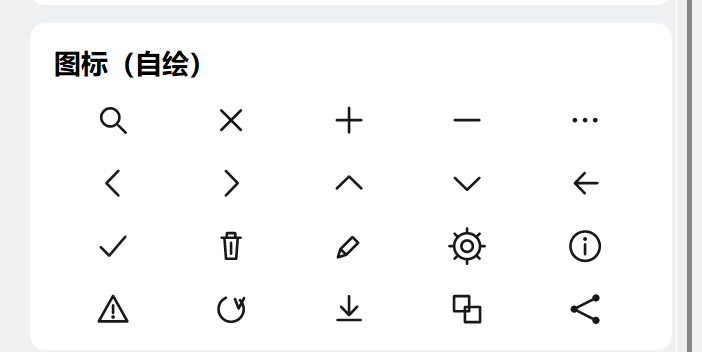
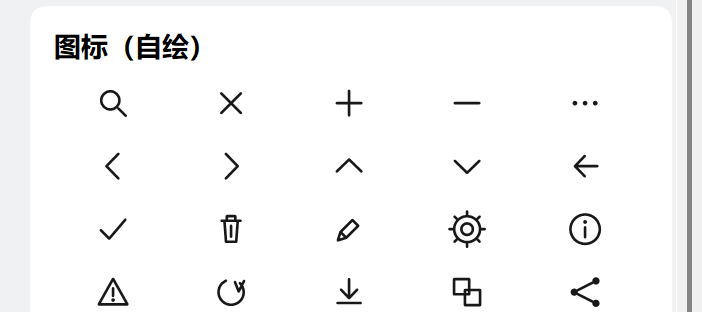
Remove frosted glass entirely
Neither route could give a control inside a page a translucent surface: the CPU blur only ever saw
the library's own paint tree, and a DWM system backdrop only covers a whole top-level window. Both
are gone, so the library is back to plain GDI+ self-painting.

- CouiBackdropEffect and CouiBackdropStyle (DWM system backdrop, acrylic accent policy, frame
  margins, corner preference, byte-order handling and the fallback between the two) are deleted.
- The demo's floating bar goes with them: it existed only to show a backdrop, and it took a
  borderless child window, three icons and the move/resize/dark-mode plumbing with it.
- CouiControl.FillsBackdrop stays, because it is not about glass: glyph controls skip an opaque
  backdrop so an icon never paints a rectangle of page colour over the card it sits on.

Version 0.2.2, screenshots re-shot without the bar, README, CHANGELOG and the Pages site state that
frosted glass is out of scope.

diff --git a/docs/index.html b/docs/index.html
@@ -111,9 +111,9 @@
   <header>
     <span class="eyebrow">WinForms · C#</span>
     <h1>CouiSharp</h1>
-    <p class="lede">按 ColorOS 17（COUI）的令牌做的一套 WinForms 控件库：12dp 超椭圆卡片、44dp 胶囊按钮、10dp 输入框；20 个图标全部自绘；浮动条的毛玻璃交给 Windows 合成器，不在托管代码里模糊像素。</p>
+    <p class="lede">按 ColorOS 17（COUI）的令牌做的一套 WinForms 控件库：12dp 超椭圆卡片、44dp 胶囊按钮、10dp 输入框；20 个图标全部自绘，透明度只靠底色合成，不做毛玻璃。</p>
     <div class="meta">
-      <span class="chip"><strong>0.2.1</strong></span>
+      <span class="chip"><strong>0.2.2</strong></span>
       <span class="chip"><strong>独立</strong> 于 MiuixSharp</span>
       <span class="chip">net8.0 / net6.0</span>
       <span class="chip">MIT</span>
@@ -166,24 +166,12 @@
     </figure>
     <div class="grid3">
       <div class="tile"><h3>CouiIcon</h3><p>Kind / IconSize / Tint 三个属性，默认跟随主题前景色。</p></div>
-      <div class="tile"><h3>不占底色</h3><p>FillsBackdrop = false：图标落在半透明窗口上不会带出一块页面颜色的方块。</p></div>
+      <div class="tile"><h3>不占底色</h3><p>FillsBackdrop = false：图标不会在自己脚下铺一块页面颜色的方块。</p></div>
       <div class="tile"><h3>为什么自己画</h3><p>COUI 图标是从 ColorOS 系统包描出来的，授权不清；自绘既干净又能按需加。</p></div>
     </div>
   </section>
 
   <section>
-    <h2>毛玻璃：用 Windows 自己的，不画像素</h2>
-    <p class="sub">CouiBackdropEffect 只调两个原生入口：Win11 22H2 起走 DWM 的系统背板类型，更老的机器退回 SetWindowCompositionAttribute 的亚克力策略。模糊由合成器做，托管的绘制时间成本是零。</p>
-    <div class="grid3">
-      <div class="tile"><h3>Win11 22H2+</h3><p>DWMWA_SYSTEMBACKDROP_TYPE：Mica / Acrylic / Tabbed，就是「设置」和开始菜单用的那一套。</p></div>
-      <div class="tile"><h3>Win10 1803+</h3><p>accent policy 的 ACCENT_ENABLE_ACRYLICBLURBEHIND；tint 的字节序是 0xAABBGGRR，和 GDI+ 反着。</p></div>
-      <div class="tile"><h3>替你处理掉的细节</h3><p>全 -1 的边框外延（否则背板止于边框）、圆角偏好（不再用 Region 裁）、驱动拒绝 DWM 属性时回退。</p></div>
-      <div class="tile"><h3>用在哪</h3><p>只有顶层窗口能透出来，所以是浮动条、调色盘、Toast 这类小表面，不是页面里的控件。</p></div>
-      <div class="tile"><h3>演示</h3><p>页面底部那条浮动条是一个无边框子窗口，里面只放三个 CouiIcon，模糊的「保存」按钮就在它左端。</p></div>
-      <div class="tile"><h3>顺手的事</h3><p>背板跟着壁纸和系统的深浅色走，ApplyDarkMode 把窗口的明暗意图交给 DWM。</p></div>
-    </div>
-  </section>
-
   <section>
     <h2>控件</h2>
     <p class="sub">全部自绘：先铺解析出的底色，再画超椭圆路径，不用 Region 裁圆角。</p>
@@ -229,7 +217,7 @@ card.Controls.AddRange(new Control[] { title, toggle, save });</pre>
           <tr><th>底色</th><td>自绘前先解析父级链路（含自定义 SurfaceColor），圆角外不会露出异物。</td></tr>
           <tr><th>文字</th><td>半透明令牌先与底色合成，再交给 TextRenderer，避免 GDI 把 26% 文字画成纯黑。</td></tr>
           <tr><th>字体</th><td>点数本身随 DPI 走，只额外乘用户显示比例，避免 150% 下双重放大。</td></tr>
-          <tr><th>毛玻璃</th><td>交给 Windows 合成器（DWM 系统背板 / 亚克力策略），托管代码不碰像素；只对顶层窗口有效。</td></tr>
+          <tr><th>毛玻璃</th><td>不做。CPU 模糊只能看到库自己画的像素，系统背板只给整个顶层窗口，两者都给不了页面内控件的透明底。</td></tr>
           <tr><th>度量</th><td>句柄创建、DPI 变化、主题变化、尺寸变化都会触发 ApplyMetrics 重算。</td></tr>
         </tbody>
       </table>
@@ -243,6 +231,7 @@ card.Controls.AddRange(new Control[] { title, toggle, save });</pre>
 </div>
 </body>
 </html>
+
 
 
 

diff --git a/samples/CouiSharp.Demo/DemoForm.cs b/samples/CouiSharp.Demo/DemoForm.cs
@@ -15,8 +15,6 @@ public sealed class DemoForm : Form
 {
     private readonly Panel _page;
     private readonly CouiLabel _status;
-    private Form _bar;
-    private CouiIcon[] _barIcons = Array.Empty<CouiIcon>();
     private float _builtDensity;
     private int _pageWidth = -1;
     private bool _rebuilding;
@@ -47,12 +45,6 @@ public sealed class DemoForm : Form
             Height = Px(24)
         };
 
-        // The floating bar is a separate borderless window whose backdrop is drawn by Windows
-        // (DWM system backdrop, or the acrylic accent policy on Windows 10). We never blur pixels
-        // ourselves: the bar only draws three glyphs on top of what the compositor puts behind it.
-        // It is created once the page has a position, so it never flashes at the wrong place.
-        _bar = null;
-
         CouiTheme.Changed += OnThemeChanged;
         // Rebuild only on a width change: the page also raises SizeChanged when a scrollbar appears
         // or disappears, and rebuilding on that reset the scroll position after a font switch.
@@ -71,7 +63,6 @@ public sealed class DemoForm : Form
     {
         BackColor = CouiTheme.Colors.BackgroundWithCard;
         _page.BackColor = CouiTheme.Colors.BackgroundWithCard;
-        if (_bar != null && !_bar.IsDisposed) CouiBackdropEffect.ApplyDarkMode(_bar.Handle, CouiTheme.IsDark);
         if (Math.Abs(_builtDensity - Density) > 0.01f)
         {
             // Never rebuild inside a control's own event: the scale slider raises ValueChanged
@@ -86,66 +77,7 @@ public sealed class DemoForm : Form
     protected override void OnShown(EventArgs e)
     {
         base.OnShown(e);
-        EnsureBar();
-        LayoutBar();
         Rebuild();
-    }
-
-    private void EnsureBar()
-    {
-        if (_bar != null || !CouiBackdropEffect.IsSupported) return;
-        _bar = new Form
-        {
-            FormBorderStyle = FormBorderStyle.None,
-            ShowInTaskbar = false,
-            StartPosition = FormStartPosition.Manual,
-            BackColor = Color.FromArgb(0x20, 0x20, 0x20),
-            Owner = this
-        };
-        _barIcons = new CouiIcon[]
-        {
-            new CouiIcon { Kind = CouiIconKind.Check },
-            new CouiIcon { Kind = CouiIconKind.Download },
-            new CouiIcon { Kind = CouiIconKind.Share }
-        };
-        foreach (CouiIcon icon in _barIcons) _bar.Controls.Add(icon);
-        _bar.Show();
-        CouiBackdropEffect.Apply(_bar, CouiBackdropStyle.Acrylic);
-        CouiBackdropEffect.ApplyDarkMode(_bar.Handle, CouiTheme.IsDark);
-    }
-
-    protected override void OnResize(EventArgs e)
-    {
-        base.OnResize(e);
-        LayoutBar();
-    }
-
-    protected override void OnMove(EventArgs e)
-    {
-        base.OnMove(e);
-        // The bar is its own window, so it has to be carried along when the page moves.
-        LayoutBar();
-    }
-
-    /// <summary>Places the floating acrylic bar and its icons in dp units.</summary>
-    private void LayoutBar()
-    {
-        if (_bar is null || _bar.IsDisposed) return;
-        int height = Px(68);
-        int width = Math.Min(Px(280), Math.Max(Px(160), ClientSize.Width - Px(40)));
-        Point origin = PointToScreen(new Point(
-            (ClientSize.Width - width) / 2,
-            ClientSize.Height - height - Px(20)));
-        _bar.Bounds = new Rectangle(origin, new Size(width, height));
-        int iconSize = Px(24);
-        int spacing = width / 3;
-        for (int i = 0; i < _barIcons.Length; i++)
-        {
-            _barIcons[i].IconSize = 24f;
-            _barIcons[i].Size = new Size(iconSize, iconSize);
-            _barIcons[i].Location = new Point(spacing * i + (spacing - iconSize) / 2,
-                                            (height - iconSize) / 2);
-        }
     }
 
     protected override void OnDpiChanged(DpiChangedEventArgs e)
@@ -218,7 +150,6 @@ public sealed class DemoForm : Form
             _pendingLayout = false;
         }
 
-        LayoutBar();
         DumpLayout();
     }
 
@@ -521,7 +452,7 @@ public sealed class DemoForm : Form
             Variant = CouiButtonVariant.Text,
             Bounds = new Rectangle(Px(236), buttonY, Px(148), Px(CouiShape.ButtonHeight))
         };
-        text.Click += (_, _) => _status.Text = "CouiSharp 0.2.1";
+        text.Click += (_, _) => _status.Text = "CouiSharp 0.2.2";
         card.Controls.Add(text);
 
         return y;
@@ -563,8 +494,8 @@ public sealed class DemoForm : Form
 
         var lines = new[]
         {
-            "CouiSharp 0.2.1 · ColorOS 17 视觉令牌",
-            "20 个自绘图标 · 系统原生毛玻璃",
+            "CouiSharp 0.2.2 · ColorOS 17 视觉令牌",
+            "20 个自绘图标 · 纯 GDI+ 自绘",
             "与 MiuixSharp 相互独立"
         };
 
@@ -584,15 +515,12 @@ public sealed class DemoForm : Form
 
     protected override void Dispose(bool disposing)
     {
-        if (disposing)
-        {
-            CouiTheme.Changed -= OnThemeChanged;
-            // An owned window is not disposed with its owner.
-            _bar?.Dispose();
-        }
+        if (disposing) CouiTheme.Changed -= OnThemeChanged;
         base.Dispose(disposing);
     }
 }
+
+
 
 
 

diff --git a/README.md b/README.md
@@ -59,44 +59,8 @@ Settings  Info  Warning  Refresh  Download  Copy  Share`
 
 Every icon uses a 24dp canvas, a 1.5dp stroke with round caps and a 2dp safety margin, so it stays
 crisp at any DPI and re-colours with the theme (`CouiIcon.Tint` overrides). Icons paint no backdrop
-(`FillsBackdrop = false`), so they can sit on a translucent surface without a rectangle of page
-colour behind them.
-
-## Window backdrop
-
-Frosted surfaces are **drawn by Windows, not by this library**. `CouiBackdropEffect` calls the two
-native entry points that do it:
-
-| Build | Path | Styles |
-| --- | --- | --- |
-| Windows 11 22H2+ (22621+) | `DwmSetWindowAttribute(DWMWA_SYSTEMBACKDROP_TYPE)` | `Mica`, `Acrylic`, `Tabbed` |
-| Windows 10 1803+ (17134+) | `SetWindowCompositionAttribute` / accent policy | `Acrylic`, `None` |
-
-```csharp
-using CouiSharp.Drawing;
-
-var bar = new Form
-{
-    FormBorderStyle = FormBorderStyle.None,
-    ShowInTaskbar = false,
-    Owner = ownerForm,
-    BackColor = Color.FromArgb(0x20, 0x20, 0x20)
-};
-bar.Show();
-CouiBackdropEffect.Apply(bar, CouiBackdropStyle.Acrylic);   // false on unsupported builds
-CouiBackdropEffect.ApplyDarkMode(bar.Handle, CouiTheme.IsDark);
-```
-
-What the API takes care of: `DwmExtendFrameIntoClientArea` with all `-1` margins (without it the
-backdrop stops at the frame), the rounded corner preference (`DWMWCP_ROUND`, so no `Region` clip
-is needed), the `0xAABBGGRR` byte order of `GradientColor` in the legacy accent path, and a fallback
-from the DWM attribute to the accent policy when a driver rejects it. `Clear` restores a plain
-window.
-
-A WinForms window shows the backdrop only where it does not paint an opaque background, so the
-realistic target is a **small top-level surface**: a floating bar, a colour palette, a toast. The
-demo floats a borderless bar over the page with three `CouiIcon` children and nothing else; the
-system composes the blur, so it costs no paint time and follows the wallpaper and the OS theme.
+(`FillsBackdrop = false`), so a glyph never drags a rectangle of page colour across the card it sits
+on.
 
 
 ## Quick start
@@ -150,10 +114,10 @@ PerMonitorV2 aware.
 
 - Controls are **self-painted**, not native wrappers; a `CouiTextBox` hosts a borderless native
   `TextBox` but everything else is drawn by the library.
-- Frosted surfaces are **the system's**, not the library's: `CouiBackdropEffect` only works on a
-  top-level window (a `Form`), never on a control inside a page, and the tint follows the OS theme
-  rather than the library palette. Anything that needs per-control transparency still needs a
-  compositor (Direct2D / Composition), which is not part of this release.
+- **No frosted glass, by design.** Neither a CPU blur of the library's own paint tree nor a DWM
+  system backdrop ships here: GDI+ cannot sample the pixels behind a control, and a system backdrop
+  only works on a whole top-level window, never on a panel inside a page. Anything translucent
+  needs a compositor (Direct2D / Composition), which is out of scope.
 - No shader-based squircle, no metaball/ Lottie effects, no navigation stack — those are COUI
   modules that need effects WinForms cannot cheaply provide.
 - Icon set is the 20 hand-drawn outlines above; COUI's `coui-icons` pack is larger and is not

diff --git a/CHANGELOG.md b/CHANGELOG.md
@@ -1,5 +1,25 @@
 # Changelog
 
+## 0.2.2 — 2026-11-20
+
+Drops frosted glass entirely. Neither of the two attempts survives: the CPU blur could only see the
+library's own paint tree, and the Windows backdrop only works on a whole top-level window, so
+neither of them could give a control inside a page a translucent surface. The library is now plain
+GDI+ self-painting, with no translation layer of any kind.
+
+### Removed
+
+- **`CouiBackdropEffect` + `CouiBackdropStyle`** — the DWM system-backdrop and acrylic accent-policy
+  wrapper added in 0.2.1, together with its frame-margin, corner-preference, byte-order and
+  fallback handling.
+- **The demo's floating bar**, which existed only to show a backdrop: the borderless child window,
+  its three icons, and the move/resize/dark-mode plumbing that carried it.
+
+### Note
+
+- `CouiControl.FillsBackdrop` stays. It is not about glass: glyph controls opt out of an opaque
+  backdrop so an icon never paints a rectangle of page colour over the card it sits on.
+
 ## 0.2.1 — 2026-11-20
 
 Drops both optional layers that shipped in 0.2.0 (the bundled typefaces and the CPU-blurred glass
